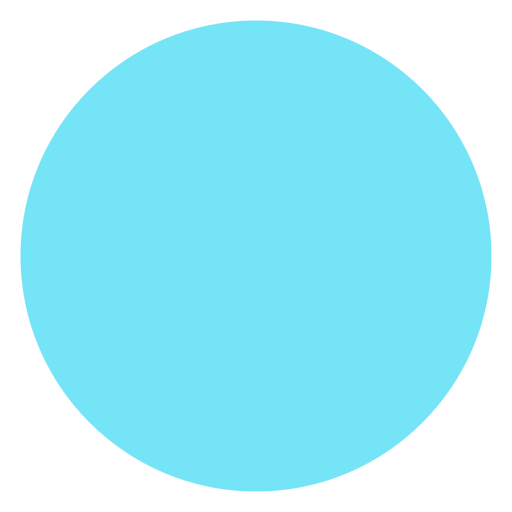
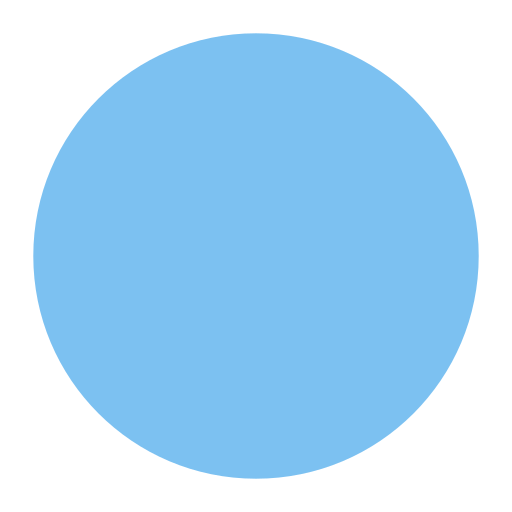
version 3

diff --git a/src/components/NavigationBar.jsx b/src/components/NavigationBar.jsx
@@ -1,46 +1,100 @@
-import { Circle, Flex, HStack, Link, Text, useMediaQuery } from "@chakra-ui/react";
+import {
+  Circle,
+  Flex,
+  HStack,
+  IconButton,
+  Link,
+  Menu,
+  MenuButton,
+  MenuItem,
+  MenuList,
+  Text,
+  useMediaQuery,
+} from "@chakra-ui/react";
 import { FaDownload } from "react-icons/fa";
+import { CloseIcon, HamburgerIcon } from "@chakra-ui/icons";
 
 const NavigationBar = () => {
   const [isMobile] = useMediaQuery("(max-width: 768px)");
   const links = ["Experience", "Projects", "Contact"];
 
-  const NavLink = ({ link }) => (
-    <Link _hover={{ color: "cyan.600" }} href={`/#/${link.toLowerCase()}`}>
-      {link}
-    </Link>
-  );
-
   if (isMobile) {
-    return <div>hi</div>;
-  } else {
     return (
-      <Flex w="100%" h="100px" justifyContent="space-between" position="fixed" bg="white">
-        <HStack ml="36">
+      <Flex
+        w="100%"
+        h="100px"
+        position="fixed"
+        bg="white"
+        justifyContent="space-around"
+        alignItems="center"
+      >
+        <HStack spacing="3">
           <Link href={"."}>
-            <Circle size="30" bg="cyan.300" />
+            <Circle size="30" bg="#7CC1F1" />
           </Link>
-
           <Text fontWeight="600">Chia Wei (Eric) Lin</Text>
         </HStack>
-        <HStack mr="36" spacing={8}>
-          {links.map((link) => (
-            <NavLink key={link} link={link} />
-          ))}
-          <Link
-            href="https://weitude.tech/chia_wei_lin_resume.pdf"
-            isExternal
-            _hover={{ color: "cyan.600" }}
-          >
-            <HStack>
-              <Text>Resume</Text>
-              <FaDownload />
-            </HStack>
-          </Link>
-        </HStack>
+        <Menu>
+          {({ isOpen }) => (
+            <>
+              <MenuButton
+                isActive={isOpen}
+                as={IconButton}
+                icon={isOpen ? <CloseIcon w={3} h={3} /> : <HamburgerIcon w={5} h={5} />}
+              />
+              <MenuList>
+                {links.map((link, idx) => (
+                  <Link key={idx} href={`/#/${link.toLowerCase()}`} _hover={{ color: "blue.600" }}>
+                    <MenuItem _focus={{ boxShadow: "none" }}>{link}</MenuItem>
+                  </Link>
+                ))}
+                <MenuItem>
+                  <Link
+                    href="https://weitude.tech/chia_wei_lin_resume.pdf"
+                    isExternal
+                    _hover={{ color: "blue.600" }}
+                  >
+                    <HStack>
+                      <Text>Resume</Text>
+                      <FaDownload />
+                    </HStack>
+                  </Link>
+                </MenuItem>
+              </MenuList>
+            </>
+          )}
+        </Menu>
       </Flex>
     );
   }
+
+  return (
+    <Flex w="100%" h="100px" justifyContent="space-around" position="fixed" bg="white">
+      <HStack spacing="4">
+        <Link href={"."}>
+          <Circle size="30" bg="#7CC1F1" />
+        </Link>
+        <Text fontWeight="600">Chia Wei (Eric) Lin</Text>
+      </HStack>
+      <HStack spacing={8}>
+        {links.map((link, idx) => (
+          <Link key={idx} href={`/#/${link.toLowerCase()}`} _hover={{ color: "blue.600" }}>
+            {link}
+          </Link>
+        ))}
+        <Link
+          href="https://weitude.tech/chia_wei_lin_resume.pdf"
+          _hover={{ color: "blue.600" }}
+          isExternal
+        >
+          <HStack>
+            <Text>Resume</Text>
+            <FaDownload />
+          </HStack>
+        </Link>
+      </HStack>
+    </Flex>
+  );
 };
 
 export default NavigationBar;

diff --git a/src/containers/HomePage.jsx b/src/containers/HomePage.jsx
@@ -1,15 +1,34 @@
-import { Box, Flex, Heading, HStack, Image, Text, VStack } from "@chakra-ui/react";
+import { Flex, Heading, Image, Text, useMediaQuery } from "@chakra-ui/react";
 import avatar from "@/img/avatar.webp";
 import { useEffect } from "react";
 
 const HomePage = () => {
+  const [isMobile] = useMediaQuery("(max-width: 768px)");
+
   useEffect(() => {
     window.location.href = "/#/";
   }, []);
 
+  if (isMobile) {
+    return (
+      <Flex flexDir="column" gap="3" alignItems="center">
+        <Heading as="h1" size="4xl" noOfLines={1}>
+          Hello!
+        </Heading>
+        <Text fontSize="3xl">I'm Eric.</Text>
+        <Flex flexDir="column" gap="2">
+          <Text fontSize="lg">A proficient Taiwanese 🇹🇼 developer.</Text>
+          <Text fontSize="lg">I am experienced in Full-Stack, DevOps, and Cyber Security.</Text>
+          <Text fontSize="lg">Recently, I've been working on C++, Python and JavaScript.</Text>
+        </Flex>
+        <Image mt="5" borderRadius="full" boxSize="70vw" src={avatar} alt="Eric" />
+      </Flex>
+    );
+  }
+
   return (
     <Flex minH="400px" gap="40px" justifyContent="center" alignItems="center">
-      <Image borderRadius="full" boxSize="25vw" src={avatar} alt="Eric" />
+      <Image borderRadius="full" boxSize="22vw" src={avatar} alt="Eric" />
       <Flex flexDir="column" gap="5">
         <Heading as="h1" size="4xl" noOfLines={1}>
           Hello!
@@ -17,9 +36,7 @@ const HomePage = () => {
         <Text fontSize="3xl">I'm Eric.</Text>
         <Flex flexDir="column" gap="2">
           <Text fontSize="lg">A proficient Taiwanese 🇹🇼 developer.</Text>
-          <Text fontSize="lg">
-            I am experienced in DevOps, Full Stack Development, and Cyber Security.
-          </Text>
+          <Text fontSize="lg">I am experienced in Full-Stack, DevOps, and Cyber Security.</Text>
           <Text fontSize="lg">Recently, I've been working on C++, Python and JavaScript.</Text>
         </Flex>
       </Flex>

diff --git a/index.html b/index.html
@@ -3,11 +3,13 @@
   <head>
     <meta charset="UTF-8" />
     <meta name="viewport" content="width=device-width, initial-scale=1" />
-    <meta name="description" content="It's me! Eric. This page is all about me." />
     <meta name="msapplication-TileColor" content="#ffffff" />
     <meta name="theme-color" content="#ffffff" />
-    <meta property="og:title" content="About Eric" />
-    <meta property="og:description" content="It's me! Eric. This page is all about me." />
+    <meta name="author" content="Chia-Wei (Eric) Lin" />
+    <meta name="copyright" content="Chia-Wei (Eric) Lin" />
+    <meta name="description" content="💎 Welcome to my personal website!" />
+    <meta property="og:title" content="Chia-Wei (Eric) Lin" />
+    <meta property="og:description" content="💎 Welcome to my personal website!" />
     <meta property="og:type" content="website" />
     <meta property="og:url" content="https://weitude.tech/" />
     <meta property="og:image" content="/og_image.webp" />

diff --git a/src/containers/ExperiencePage.jsx b/src/containers/ExperiencePage.jsx
@@ -1,14 +1,16 @@
-import { Flex, Heading, StackDivider, VStack } from "@chakra-ui/react";
+import { Flex, Heading, StackDivider, useMediaQuery, VStack } from "@chakra-ui/react";
 import { education, infos } from "@/data/Infos.jsx";
 import InfoSection from "@/components/InfoSection";
 
 const ExperiencePage = () => {
+  const [isMobile] = useMediaQuery("(max-width: 768px)");
+
   return (
-    <Flex w="100%" flexDir="column" px="10" pt="8">
-      <Heading mb="8vh" align="center">
+    <Flex w="100%" flexDir="column" pt={isMobile ? "4" : "8"}>
+      <Heading mb={isMobile ? "4vh" : "8vh"} align="center">
         Experience
       </Heading>
-      <VStack spacing="10" divider={<StackDivider borderColor="gray.200" />}>
+      <VStack spacing="6" divider={<StackDivider borderColor="gray.200" />}>
         <InfoSection title="Education" infos={education} />
         <InfoSection title="Experience" infos={infos} />
       </VStack>

diff --git a/src/App.jsx b/src/App.jsx
@@ -1,5 +1,5 @@
 import { HashRouter, Route, Routes } from "react-router-dom";
-import { Flex } from "@chakra-ui/react";
+import { Flex, useMediaQuery } from "@chakra-ui/react";
 import HomePage from "@/containers/HomePage";
 import NavigationBar from "@/components/NavigationBar";
 import ExperiencePage from "@/containers/ExperiencePage";
@@ -8,10 +8,12 @@ import ContactPage from "@/containers/ContactPage";
 import Footer from "@/components/Footer.jsx";
 
 function App() {
+  const [isMobile] = useMediaQuery("(max-width: 768px)");
+
   return (
     <HashRouter>
       <NavigationBar />
-      <Flex minH="100vh" p="100px" justifyContent="center">
+      <Flex minH="100vh" px={isMobile ? "45px" : "100px"} py="100px" justifyContent="center">
         <Routes>
           <Route path="/" element={<HomePage />} />
           <Route path="/experience" element={<ExperiencePage />} />

diff --git a/src/containers/ProjectsPage.jsx b/src/containers/ProjectsPage.jsx
@@ -1,14 +1,16 @@
-import { Flex, Heading, StackDivider, VStack } from "@chakra-ui/react";
+import { Flex, Heading, StackDivider, useMediaQuery, VStack } from "@chakra-ui/react";
 import { projects } from "@/data/Infos";
 import InfoSection from "@/components/InfoSection";
 
 const ProjectsPage = () => {
+  const [isMobile] = useMediaQuery("(max-width: 768px)");
+
   return (
-    <Flex w="100%" flexDir="column" px="10" pt="8">
-      <Heading mb="8vh" align="center">
+    <Flex w="100%" flexDir="column" pt={isMobile ? "4" : "8"}>
+      <Heading mb={isMobile ? "4vh" : "8vh"} align="center">
         Projects
       </Heading>
-      <VStack spacing="10" divider={<StackDivider borderColor="gray.200" />}>
+      <VStack spacing="6" divider={<StackDivider borderColor="gray.200" />}>
         <InfoSection title="Projects" infos={projects} />
       </VStack>
     </Flex>

diff --git a/src/components/InfoSection.jsx b/src/components/InfoSection.jsx
@@ -1,13 +1,15 @@
-import { Flex, Text, VStack } from "@chakra-ui/react";
+import { Flex, StackDivider, Text, useMediaQuery, VStack } from "@chakra-ui/react";
 import InfoCard from "@/components/InfoCard";
 
 const InfoSection = ({ title, infos }) => {
+  const [isMobile] = useMediaQuery("(max-width: 768px)");
+
   return (
-    <Flex>
-      <Text minW="25vw" fontSize="3xl">
+    <Flex gap="5" flexDir={isMobile ? "column" : "row"}>
+      <Text minW="20vw" fontSize="3xl">
         {title}
       </Text>
-      <VStack spacing="10" my="3">
+      <VStack spacing="8" my="2" divider={<StackDivider borderColor="gray.200" />}>
         {infos.map((info, idx) => (
           <InfoCard key={idx} info={info} />
         ))}

diff --git a/src/components/InfoCard.jsx b/src/components/InfoCard.jsx
@@ -1,14 +1,15 @@
-import { Button, Flex, Text } from "@chakra-ui/react";
+import { Button, Flex, Text, useMediaQuery } from "@chakra-ui/react";
 
 const InfoCard = ({ info }) => {
+  const [isMobile] = useMediaQuery("(max-width: 768px)");
   const { title, subtitle, period, content, buttons } = info;
 
   return (
-    <Flex gap="2">
+    <Flex gap="2" flexDir={isMobile ? "column" : "row"}>
       <Text minW="180px" mt="1">
         {period}
       </Text>
-      <Flex flexDir="column" gap="2" minW="35vw" w="35vw">
+      <Flex flexDir="column" gap="2" minW="35vw" w={isMobile ? "100%" : "35vw"}>
         <Text as="b" fontSize="xl">
           {title}
         </Text>

diff --git a/src/containers/ContactPage.jsx b/src/containers/ContactPage.jsx
@@ -1,10 +1,12 @@
-import { Flex, Heading, VStack } from "@chakra-ui/react";
+import { Flex, Heading, useMediaQuery, VStack } from "@chakra-ui/react";
 import { contactButtons } from "@/data/Infos.jsx";
 import ContactButton from "@/components/ContactButton.jsx";
 
 const ContactPage = () => {
+  const [isMobile] = useMediaQuery("(max-width: 768px)");
+
   return (
-    <Flex w="100%" flexDir="column" px="10" pt="8">
+    <Flex w="100%" flexDir="column" pt={isMobile ? "4" : "8"} h="50%">
       <Heading mb="8vh" align="center">
         Contact
       </Heading>

diff --git a/src/components/ContactButton.jsx b/src/components/ContactButton.jsx
@@ -1,12 +1,13 @@
-import { Button } from "@chakra-ui/react";
+import { Button, useMediaQuery } from "@chakra-ui/react";
 
 const ContactButton = ({ contactButton }) => {
   const { title, icon, url, color } = contactButton;
+  const [isMobile] = useMediaQuery("(max-width: 768px)");
 
   return (
     <Button
       size="lg"
-      w="25vw"
+      w={isMobile ? "60vw" : "25vw"}
       leftIcon={icon}
       color="white"
       bg={color}

diff --git a/vite.config.js b/vite.config.js
@@ -8,9 +8,6 @@ export default defineConfig({
   resolve: {
     alias: {
       "@": path.resolve(__dirname, "src"),
-      "@logo": path.resolve(__dirname, "src/img/logos"),
-      "@memoji": path.resolve(__dirname, "src/img/memojis"),
-      "@project": path.resolve(__dirname, "src/img/projects"),
     },
   },
 });

diff --git a/src/data/Infos.jsx b/src/data/Infos.jsx
@@ -62,7 +62,7 @@ const projects = [
     ],
   },
   {
-    title: "weitude",
+    title: "Weitude Blog",
     subtitle: "",
     period: "May. 2022 - Present",
     content: "Using Hexo and Vite to build my blogs which recording my life.",
